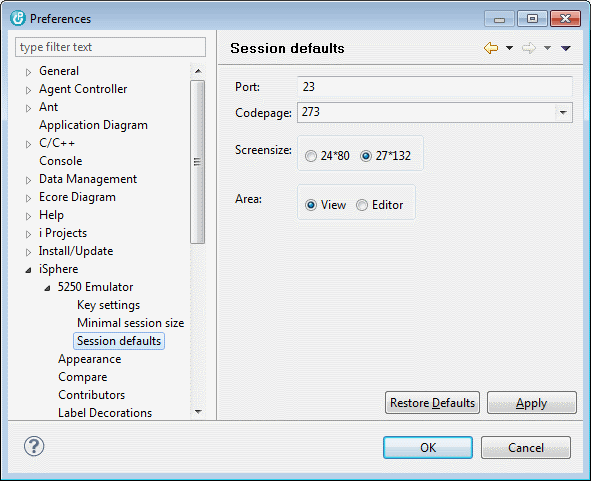
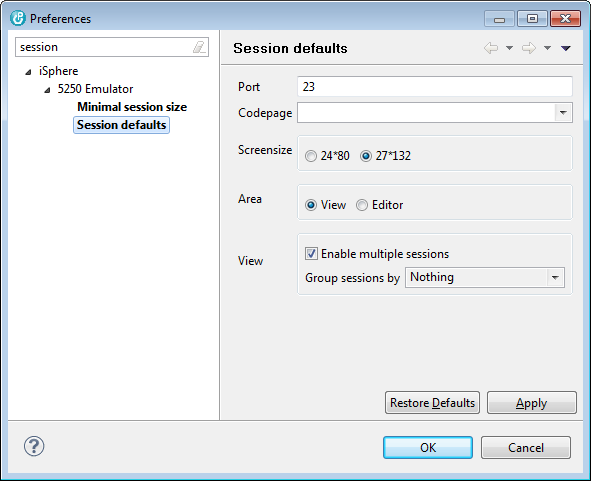
Finished adding option to pin the 5250 sessions view.

diff --git a/eclipse/iSphere Help 5250 Emulator/html/5250emulator/configuration/configuration.html b/eclipse/iSphere Help 5250 Emulator/html/5250emulator/configuration/configuration.html
@@ -79,8 +79,33 @@
 			<td valign="top">-</td>
 			<td valign="top">Screen size of your 5250 session.</td>
 		</tr>
-	<tr><td valign="top" nowrap>Area</td><td valign="top">-</td><td valign="top">Specifies where to create the 5250 window. The 
-	                     editor area is in the center of the Eclipse window whereas views are arrange around the editor area.</td></tr>
+		<tr>
+			<td valign="top" nowrap>Area</td>
+			<td valign="top">-</td>
+			<td valign="top">Specifies where to create the 5250 window. The editor area is in the center of the 
+			                 Eclipse window whereas views are arrange around the editor area.
+            </td>
+		</tr>
+		<tr>
+			<td valign="top" nowrap>View</td>
+			<td valign="top">-</td>
+			<td valign="top">Specifies the rules for sessions that are created in a view.</td>
+		</tr>
+       	<tr>
+       		<td valign="top" nowrap>Enable multi sessions</td>
+       		<td valign="top">-</td>
+       		<td valign="top">Specifies whether or not you can open up to 4 sessions in a session tab.<br>
+       		                 (For an example, refer to section <a href="../session/session.html#as_view_sessions">Session</a>)</td>
+       	</tr>
+		<tr>
+			<td valign="top" nowrap>Group sessions by</td>
+			<td valign="top">-</td>
+			<td valign="top">Specifies how to group sessions. You can disable session grouping, which is the default,
+			                 or you can group sessions by <i>Connection</i> or <i>Session</i>. When sessions are grouped by 
+			                 connections, a separate view is created per connection. Likewise separate views are created 
+			                 for each session, when grouping by session has been selected. <b>You need to close all 5250 views
+			                 after having changed the grouping attribute, to let the new value take effect.</b></td>
+		</tr>
 	</table>
 	<p>
 		<iframe src="../../copyright.html" width="100%" frameborder="0"

diff --git a/eclipse/iSphere Help 5250 Emulator/html/5250emulator/session/session.html b/eclipse/iSphere Help 5250 Emulator/html/5250emulator/session/session.html
@@ -127,6 +127,7 @@
 		</tr>
 	</table>
 	<p>
+	<a id="as_view_sessions"></a>
 	<h3>As View Sessions</h2>
 	<p>
 	You can add up to 3 additional sessions with the little plus button at the top right corner of
